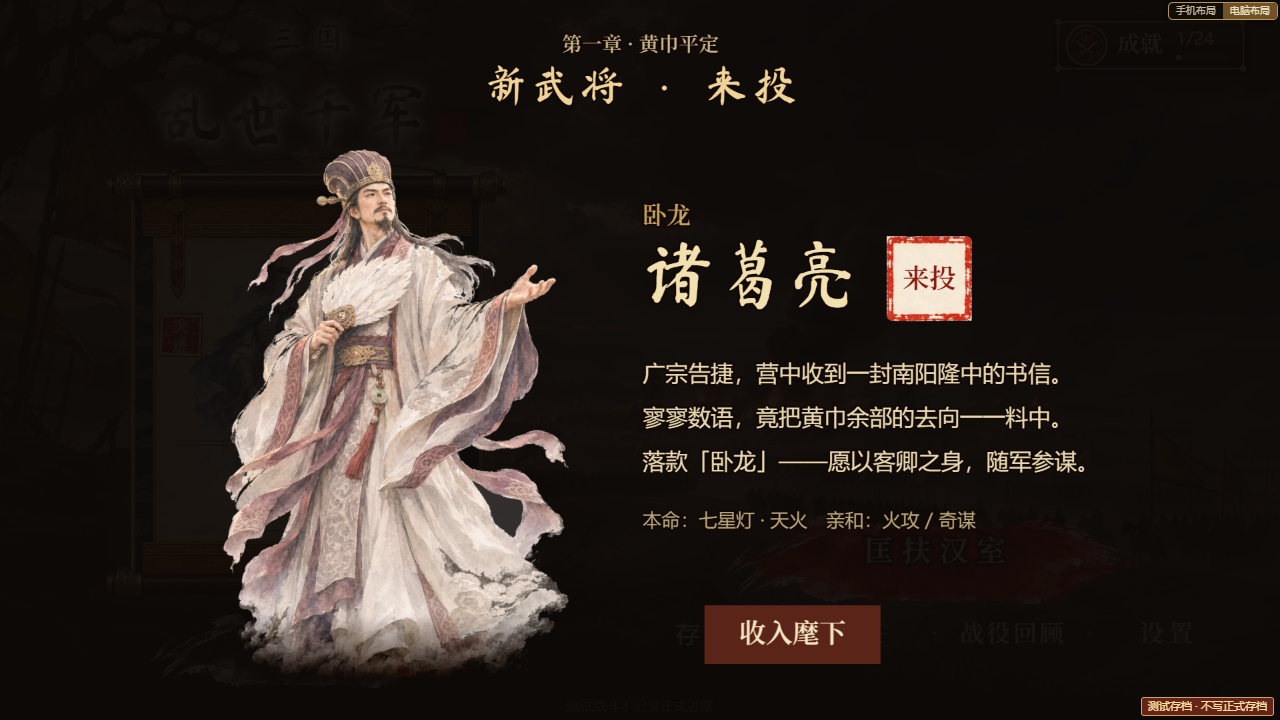
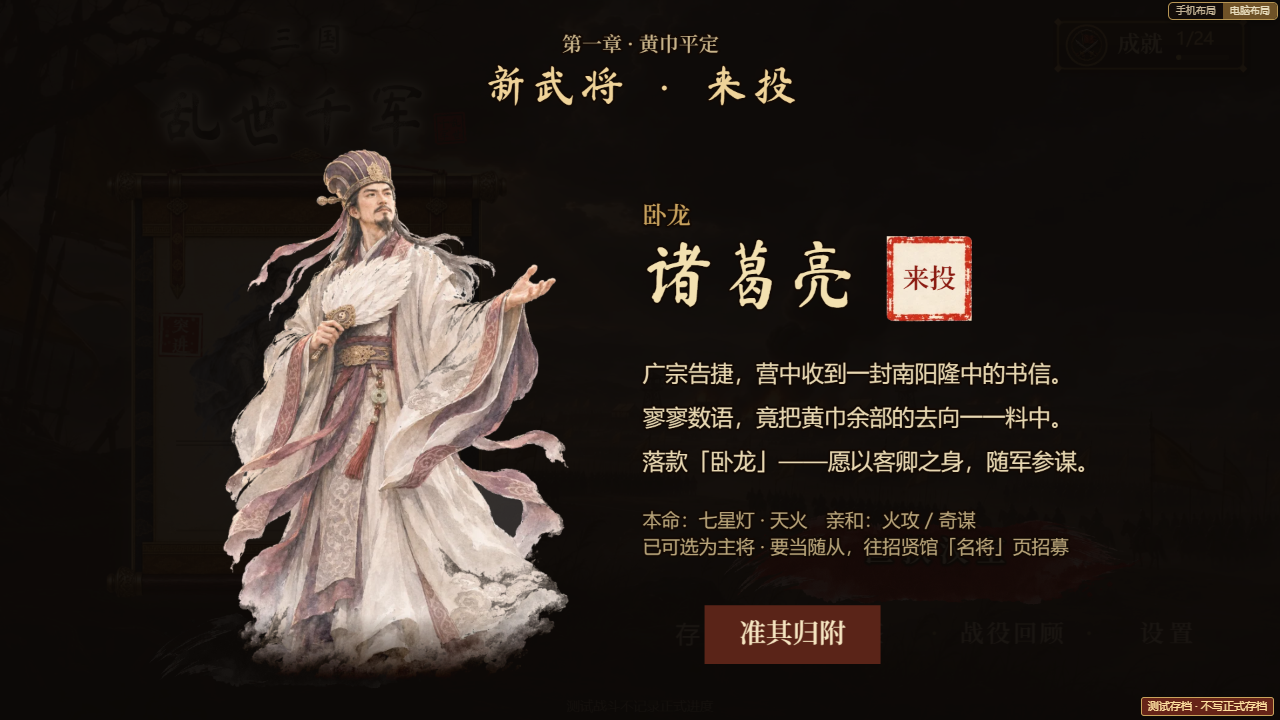
武将解锁只代表可选为主将，要当随从须去招贤馆招募（用户：「角色解锁是指可以玩到的角色，不是解锁就可以跟随了，需要去招贤那里招」）
- 打章节来投 / 劝降解锁的可玩武将：只能选为主将；不再免费入麾下（HeroJoinReveal 不再传 grantHero；劝降黄忠 joinByPersuasion 只解锁、提示去招贤馆）
- 招贤馆新增「名将」页：列出主公以外的全部可玩武将——未归附：剪影 + 「尚未归附 · 需劝降招募」；已归附未招：「招募 · N 军粮」；已在麾下：灰按钮
  hireHero：扣军粮、入麾下（随行名额有空就直接随行）、等级同 recruit 定在「随行上限 − 2」；价按档次 RECRUIT.heroHire（一般 900 / 顶尖 1200，开局四人 0，交平衡会话）
- 席位里不再随机挂可玩武将（原那份概率并给史事名将，原「再刷 N 次必出名将」保底取消），名将出现率文案同步
- 新存档：开局刘关张赵默认已招入麾下，主公之外的三人在随行名额内自动随行（RosterSave.starters，一档一次）
- 选主将界面：已归附未招的写「已归附 · 随行需往招贤馆招募」；揭幕卡加「要当随从，往招贤馆『名将』页招募」，按钮改「准其归附」
- 本关临时随战的降将来投等剧情直接入队不受影响
- test-hero-unlocks 19/19（新增 ⑨ 解锁≠随从、开局四人、未归附 / 军粮不足不能招、招募扣粮入麾下、劝降只解锁、席位不出可玩武将、名将页截图）；
  test-follower-cap 13/13（可玩名将改用 hireHero；名单分页逐页收集）；tsc、TMP 构建通过

Changed region(s): [[0.5, 0.7333, 0.8438, 0.7944], [0.5625, 0.8556, 0.6562, 0.9167]]

diff --git a/src/systems/RosterStore.ts b/src/systems/RosterStore.ts
@@ -11,6 +11,7 @@ import { isChapterTestRun } from './ChapterProgress';
 import { SURRENDER, recruitableName } from '../data/surrender';
 import { activeValue, passiveValue } from '../data/commonerSkills';
 import { heroUnlocked } from './HeroUnlocks';
+import { STARTER_HEROES, LOCKED_HINT as UNJOINED_HINT } from '../data/heroUnlocks';
 
 /**
  * 人才库与已招武将（RECRUIT_PLAN.md，用户选 A 方案）：独立存档键 im_roster_v1（在 SaveSlots.PROGRESS_KEYS 里，随存档位切换）。
@@ -27,6 +28,8 @@ export interface RosterSave {
   /** 主公已最终确定（开新存档时选定，或老存档在提示里确认 / 改选过一次）。false = 老存档自动指定，还有一次改选机会。 */
   lordFinal: boolean;
   offers: Offer[]; captives: Offer[]; season: number; manual: number; dry: number; seq: number; hall: number;
+  /** 开局四人（刘关张赵）已默认招进麾下（新存档一次；之后遣散了也不再补）。 */
+  starters?: boolean;
 }
 
 const RANDOM_KEY = '__im_roster_random';
@@ -67,7 +70,7 @@ function read(): RosterSave | null {
     const raw = localStorage.getItem(ROSTER_KEY); if (!raw) return null;
     const v = JSON.parse(raw); if (!v || v.version !== 1) return null;
     const s = empty();
-    s.lord = isHero(v.lord) ? v.lord : null; s.lordFinal = !!s.lord && v.lordFinal === true;
+    s.lord = isHero(v.lord) ? v.lord : null; s.lordFinal = !!s.lord && v.lordFinal === true; s.starters = v.starters === true;
     const seen = new Set<string>();
     for (const r of Array.isArray(v.owned) ? v.owned.slice(0, RECRUIT.maxOwned + 5) : []) { const p = parseRecruit(r); if (p && !seen.has(p.id)) { seen.add(p.id); s.owned.push(p); } }
     if (s.lord && !seen.has(s.lord)) s.owned.unshift(heroRecruit(s.lord));
@@ -115,7 +118,10 @@ export function loadRoster(): RosterSave {
   if (!worldUnlocked()) return empty();
   let s = read() ?? migrate();
   clampFollowerLevels(s);
-  { const n = s.offers.length; s.offers = s.offers.filter(o => !o.hero || heroUnlocked(o.hero)); if (s.offers.length !== n) write(s); } // 老档里挂着的还没来投的武将撤牌
+  // 可玩武将改在「名将」页直接招募：席位里不再挂可玩武将（老档挂着的一并撤牌）
+  { const n = s.offers.length; s.offers = s.offers.filter(o => !o.hero); if (s.offers.length !== n) write(s); }
+  // 开局四人（刘关张赵）新存档默认已招、互为随从（随行名额内）
+  if (!s.starters) { s.starters = true; for (const h of STARTER_HEROES) if (!s.owned.some(r => r.hero === h)) s.owned.push(heroRecruit(h)); const cap = followerCap(s); for (const r of s.owned) if (r.hero && r.hero !== s.lord && (STARTER_HEROES as readonly string[]).includes(r.hero) && s.followers.length < cap && !s.followers.includes(r.id)) s.followers.push(r.id); write(s); }
   const now = currentSeason();
   if (s.season !== now) {
     s.captives = s.captives.filter(o => (o.expires ?? now) > now);
@@ -243,7 +249,7 @@ const pityOf = (s: RosterSave): number => RECRUIT.pity[hallIdx(s)];
 /** 当前招贤馆等级下的名将出现率（界面用）：每席出名将（史事 + 可玩）的概率、其中可玩名将的概率、保底还差几次（0 = 这一级没有保底）。 */
 export function hallOdds(s: RosterSave = loadRoster()): { seat: number; hero: number; pity: number; pityLeft: number } {
   const r = RECRUIT.rates[hallIdx(s)], pity = pityOf(s);
-  return { seat: r.named + r.hero, hero: r.hero, pity, pityLeft: pity > 0 ? Math.max(1, pity - s.dry + 1) : 0 };
+  void pity; return { seat: r.named + r.hero, hero: 0, pity: 0, pityLeft: 0 }; // 可玩武将改在「名将」页直接招募
 }
 /** 刷新全部席位（自动换季与手动刷新共用），处理保底。 */
 function rollOffers(s: RosterSave): void {
@@ -252,12 +258,12 @@ function rollOffers(s: RosterSave): void {
   const seats = RECRUIT.seats[hallIdx(s)], rates = RECRUIT.rates[hallIdx(s)];
   for (let i = 0; i < seats; i++) {
     const r = rand(); let o: Offer | null = null;
-    if (r < rates.hero) o = heroOffer(s); else if (r < rates.hero + rates.named) o = namedOffer(s);
+    if (r < rates.hero + rates.named) o = namedOffer(s); // 可玩武将不再随机挂牌（改在「名将」页招募），原先那份概率并给史事名将
     s.offers.push(o ?? commonOffer(s));
   }
   const anyLeft = CHARACTERS.some(c => !s.owned.some(r => r.hero === c.id));
-  if (s.offers.some(o => o.kind === 'hero')) s.dry = 0;
-  else if (anyLeft && pityOf(s) > 0) { // Lv1 没有保底，也不攒次数
+  void anyLeft; s.dry = 0; // 可玩武将改为直接招募：不再有「再刷 N 次必出名将」保底
+  if (false as boolean) { // 旧保底（保留结构，不再触发）
     s.dry++;
     if (s.dry > pityOf(s)) { const h = heroOffer(s); if (h) { s.offers[s.offers.length - 1] = h; s.dry = 0; } }
   }
@@ -352,6 +358,8 @@ export function captureBoss(b: { id: string; name: string; template: FollowerTem
  * 麾下已满时不加，返回提示。新增内容会话 2026-11-17。
  */
 export function joinByPersuasion(name: string, hero?: CharacterId, opts: { boss?: string; template?: FollowerTemplate; quality?: ItemQuality } = {}): RosterResult {
+  // 可玩武将（黄忠）劝降成功：只算「解锁可玩」，要当随从得去招贤馆「名将」页招募（2026-11-20）
+  if (hero) return { ok: true, message: name + '归附 · 可选为主将；往招贤馆「名将」页招募后才随行' };
   const s = loadRoster();
   if (hero ? s.owned.some(r => r.hero === hero) : s.owned.some(r => r.name === name || (opts.boss && r.boss === opts.boss))) return { ok: true, message: `${name}已在麾下` };
   if (s.owned.length >= RECRUIT.maxOwned) return { ok: false, message: `麾下已满 ${RECRUIT.maxOwned} 人，${name}暂回乡里（遣散一些后再来）` };
@@ -380,6 +388,26 @@ export function toggleFollower(id: string): RosterResult {
  * 武将来投（systems/HeroUnlocks）：免费直接进本档麾下（不进降将栏、不花军粮），顺手撤掉招贤馆里同一人的挂牌。
  * 天下还没开放（没有人才库）时返回 false——等开放后下次补查再入。已在麾下也算 true。
  */
+/** 这位可玩武将在不在本档麾下（主公算在）。 */
+export function heroHired(hero: CharacterId, s: RosterSave = loadRoster()): boolean { return s.lord === hero || s.owned.some(r => r.hero === hero); }
+/** 招为随从的价（按档次，data/recruits RECRUIT.heroHire；开局四人 0）。 */
+export function heroHireCost(hero: CharacterId): number { if ((STARTER_HEROES as readonly string[]).includes(hero)) return 0; const H = RECRUIT.heroHire; return H.highIds.includes(hero) ? H.high : H.base; }
+/**
+ * 招贤馆「名将」页：把已解锁（可玩）的武将招进麾下当随从（2026-11-20 用户「解锁了不是就能跟随，要去招贤那里招」）。
+ * 没解锁 / 已在麾下 / 军粮不够都不招；招到后随行名额有空就直接随行。
+ */
+export function hireHero(hero: CharacterId): RosterResult {
+  if (!worldUnlocked()) return { ok: false, message: '天下尚未开放' };
+  const name = getCharacter(hero).name;
+  if (!heroUnlocked(hero)) return { ok: false, message: name + ' · ' + UNJOINED_HINT };
+  const s = loadRoster(); if (heroHired(hero, s)) return { ok: false, message: name + '已在麾下' };
+  if (s.owned.length >= RECRUIT.maxOwned) return { ok: false, message: '麾下已满 ' + RECRUIT.maxOwned + ' 人（遣散一些后再招）' };
+  const cost = heroHireCost(hero); if (cost > 0 && !spendWorld({ provisions: cost })) return { ok: false, message: '军粮不足：招募' + name + '需要 ' + cost };
+  const s2 = loadRoster(), r = heroRecruit(hero); s2.owned.push(r); if (s2.followers.length < followerCap(s2)) s2.followers.push(r.id);
+  // 同 recruit()：新入队定在「随行上限 − 2」级（早有更高的武将等级记录就保留，但不超过上限）
+  { const joinCap = followerLevelCap(), joinLevel = Math.max(1, joinCap - FOLLOWER_LEVEL.joinBelowCap), key = hero as HeroKey, keep = hasHeroRecord(key) ? Math.min(heroLevel(key), joinCap) : 0; clampHeroLevel(key, joinCap, Math.max(joinLevel, keep)); }
+  write(s2); return { ok: true, message: name + '应募入麾下' + (s2.followers.includes(r.id) ? ' · 已随行' : ' · 可在「麾下」设为随行') + (cost ? ' · 花费 ' + cost + ' 军粮' : '') };
+}
 export function grantHero(hero: CharacterId): boolean {
   if (!worldUnlocked()) return false;
   const s = loadRoster();

diff --git a/src/scenes/TalentHallScene.ts b/src/scenes/TalentHallScene.ts
@@ -18,12 +18,16 @@ import { attrBadge } from '../ui/AttrBadge';
 import { homeCommand } from '../ui/HomeCommand';
 import { lqHitBox, lqPanel, lqSkin } from '../ui/LacquerKit';
 import { HEADING_FONT } from '../config';
+import { heroHireCost, heroHired, hireHero } from '../systems/RosterStore';
+import { heroUnlocked } from '../systems/HeroUnlocks';
+import { LOCKED_HINT as UNJOINED_HINT } from '../data/heroUnlocks';
+import type { CharacterId } from '../data/characters';
 
 /** 普通招募武将（内部 kind = 'common'）对玩家显示的称呼（用户 2026-11-17：不叫「大众脸」，改三国风；候选 无名之辈 / 偏裨之将 / 庸碌之将，待用户定）。 */
 export const COMMON_LABEL = '无名之辈';
 /** 电脑版左右边距（2026-11-18 用户截图：标题、军粮、行框、页签贴着左边）：行框从 MX 起，文字再往里。 */
 const MX = 32;
-type Tab = 'offers' | 'roster';
+type Tab = 'offers' | 'roster' | 'heroes';
 export class TalentHallScene extends Phaser.Scene {
   private tab: Tab = 'offers'; private page = 0; private message = ''; private content?: Phaser.GameObjects.Container; private status!: Phaser.GameObjects.Text;
   constructor() { super('TalentHallScene'); }
@@ -79,6 +83,9 @@ export class TalentHallScene extends Phaser.Scene {
     this.small(D ? MX + 70 : 90, tabY, 140, `人才（${s.offers.length + s.captives.length}）`, () => { this.tab = 'offers'; this.page = 0; this.render(); }, 'talent-tab-offers', true, this.tab === 'offers');
     const men = rosterFollowers(s); // 2026-11-18 用户「主公不应该在这里」：麾下不含主公
     this.small(D ? MX + 70 + 150 : 240, tabY, 140, `麾下（${men.length}）`, () => { this.tab = 'roster'; this.page = 0; this.render(); }, 'talent-tab-roster', true, this.tab === 'roster');
+    // 名将（2026-11-20 用户「解锁是指可以玩到的角色，不是解锁就可以跟随了，需要去招贤那里招」）：可玩武将在这里花军粮招为随从
+    const heroList = CHARACTERS.filter(c => c.id !== s.lord), hirable = heroList.filter(c => heroUnlocked(c.id) && !heroHired(c.id, s)).length;
+    this.small(D ? MX + 70 + 300 : 390, tabY, 140, `名将（可招 ${hirable}）`, () => { this.tab = 'heroes'; this.page = 0; this.render(); }, 'talent-tab-heroes', true, this.tab === 'heroes');
     if (hall < 3) { const c = RECRUIT.hallUpgrade[Math.max(1, hall) - 1]; this.small(W - (D ? MX + 110 : 110), tabY, D ? 220 : 180, `升级招贤馆（${c.provisions} 军粮）`, () => { this.message = upgradeHall().message; this.render(); }, 'talent-hall-up'); }
     const top = tabY + (D ? 26 : 34), bottom = H - (D ? 64 : 104) - 30, rowH = D ? 74 : this.tab === 'roster' ? 118 : 104;
     const per = Math.max(1, Math.floor((bottom - top) / rowH));
@@ -90,8 +97,13 @@ export class TalentHallScene extends Phaser.Scene {
       for (const it of list) rows.push(() => this.offerRow(it.o, it.i, it.captive, at(), rowH - 8));
       // 名将出现率（用户 2026-11-17：Lv1 基本不出名将，升级招贤馆后提高）
       const cost = refreshCost(s), odds = hallOdds(s), pct = (v: number) => `${+(v * 100).toFixed(1)}%`;
-      this.content.add(worldText(this, D ? MX + 4 : 24, bottom + 6, `名将出现率：每席 ${pct(odds.seat)}（可玩名将 ${pct(odds.hero)}）` + (odds.pity ? ` · 再刷 ${odds.pityLeft} 次内必出未归附名将` : ' · 升级招贤馆后提高'), 12, '#b9ceb8').setName('talent-odds'));
+      this.content.add(worldText(this, D ? MX + 4 : 24, bottom + 6, `史事名将出现率：每席 ${pct(odds.seat)} · 升级招贤馆后提高 · 可玩武将在「名将」页直接招募`, 12, '#b9ceb8').setName('talent-odds'));
       this.small(W - (D ? MX + 95 : 100), bottom + 14, D ? 190 : 170, `刷新（${cost} 军粮）`, () => { this.message = manualRefresh().message; this.page = 0; this.render(); }, 'talent-refresh', w.provisions >= cost, true);
+    } else if (this.tab === 'heroes') {
+      // 已解锁未招的排前面，其次已在麾下，最后未归附
+      const rank = (id: CharacterId) => !heroUnlocked(id) ? 2 : heroHired(id, s) ? 1 : 0;
+      for (const c of [...heroList].sort((a, b) => rank(a.id) - rank(b.id))) rows.push(() => this.heroRow(c.id, at(), rowH - 8, s.followers.length, cap, w.provisions));
+      this.content.add(worldText(this, D ? MX + 4 : 24, bottom + 20, '解锁的武将可以选为主将；要当随从（跟着出战）得在这里招募。招到后随行名额有空就直接随行。', 12, '#b9ceb8').setName('talent-heroes-note'));
     } else {
       for (const r of men) rows.push(() => this.rosterRow(r, s.followers.includes(r.id), at(), rowH - 8, rankCap(s)));
       this.content.add(worldText(this, D ? MX + 4 : 24, bottom + 6, `随行 ${s.followers.length}/${cap} · 出战时与主将同名的随行自动留守`, 12, '#b9ceb8'));
@@ -118,6 +130,20 @@ export class TalentHallScene extends Phaser.Scene {
     this.content!.add(worldText(this, tx, y - h / 2 + (D ? 32 : 36), `${q.label} · ${kind}${captive && o.expires !== undefined ? ` · 剩 ${captiveSeasonsLeft(o)} 季` : ''}\n${surrenderMoveLine(o.boss) ? TEMPLATES[o.template].name + ' · ' + surrenderMoveLine(o.boss) : TEMPLATES[o.template].name + '：' + TEMPLATES[o.template].desc}`, 12, '#cdbf9f').setWordWrapWidth(w - size - 150).setName('talent-offer-desc'));
     const cost = captive ? Math.ceil(o.cost * RECRUIT.captiveDiscount) : o.cost;
     this.small(W - x0 - 70, y, 120, `${captive ? '招降' : '招募'} ${cost}粮`, () => { this.message = recruit(i, captive).message; this.render(); }, `talent-${captive ? 'captive' : 'offer'}-${i}`, true, o.kind !== 'common');
+  }
+  /** 「名将」页一行：头像、名字与状态；未归附 → 剪影 + 「尚未归附 · 需劝降招募」；已归附未招 → 「招募 · N 军粮」；已在麾下 → 灰按钮。 */
+  private heroRow(id: CharacterId, y: number, h: number, following: number, cap: number, grain: number) {
+    const D = W > 600, x0 = D ? MX : 16, w = W - x0 * 2, c = getCharacter(id), unlocked = heroUnlocked(id), hired = unlocked && heroHired(id), cost = heroHireCost(id);
+    if (D) { const g = this.add.graphics(); g.fillStyle(0x000000, .35).fillRoundedRect(x0 + 2, y - h / 2 + 3, w, h, 8).fillStyle(0x1b120b, .96).fillRoundedRect(x0, y - h / 2, w, h, 8).lineStyle(1.5, unlocked && !hired ? 0xe0b25a : 0xc9a35e, unlocked ? .9 : .4).strokeRoundedRect(x0, y - h / 2, w, h, 8); this.content!.add(g); } else this.content!.add(panel(this, W / 2, y, w, h));
+    const size = h - 16; this.seal(x0 + 12 + size / 2, y, size, 'orange', c.name.slice(0, 1), unlocked ? c.portrait : undefined);
+    if (!unlocked) { const sh = this.content!.list[this.content!.list.length - 1] as Phaser.GameObjects.Text; sh?.setColor?.('#5a4a36'); }
+    const tx = x0 + 24 + size;
+    this.content!.add(worldText(this, tx, y - h / 2 + 8, unlocked ? c.name : '？？？', D ? 17 : 18, unlocked ? '#f2a24e' : '#8a7a62').setName('talent-hero-name-' + id));
+    const status = !unlocked ? UNJOINED_HINT : hired ? '已在麾下 · 去「麾下」页设随行' : '已归附 · 可选为主将 · 需在此招募才会随行出战';
+    this.content!.add(worldText(this, tx, y - h / 2 + (D ? 32 : 36), status, 12, unlocked ? '#cdbf9f' : '#8a7a62').setName('talent-hero-status-' + id));
+    const label = !unlocked ? '未归附' : hired ? '已在麾下' : `招募 · ${cost} 军粮`, can = unlocked && !hired && grain >= cost;
+    this.small(W - x0 - 90, y, 160, label, () => { const r = hireHero(id); this.message = r.message; this.render(); }, 'talent-hire-' + id, can, unlocked && !hired);
+    void following; void cap;
   }
   private rosterRow(r: Recruit, following: boolean, y: number, h: number, cap: number) {
     const D = W > 600, x0 = D ? MX : 16, w = W - x0 * 2, q = QUALITIES[r.quality];

diff --git a/src/ui/HeroJoinReveal.ts b/src/ui/HeroJoinReveal.ts
@@ -5,7 +5,6 @@ import { heroAffinity, SCHOOLS } from '../data/schools';
 import { weaponName } from '../data/upgrades';
 import { FONT, HEADING_FONT, TITLE_FONT, GAME_WIDTH as W, GAME_HEIGHT as H, IS_DESKTOP as D } from '../config';
 import { joinedByFallback, markRevealSeen, pendingReveals, realProgress, refreshUnlocks } from '../systems/HeroUnlocks';
-import { grantHero } from '../systems/RosterStore';
 
 /**
  * 「新武将 · 来投」揭幕（hero-unlock-design.md 第三节）：黑底，水墨立轴从墨晕里显出 → 朱印「来投」盖下 →
@@ -16,7 +15,8 @@ const GOLD = '#efd399', IVORY = '#e8d8b2', STROKE = '#120904';
 
 /** 按进度补查来投（本档免费入麾下）并把没看过的揭幕依次弹出。各场景进来 / 告捷时调。 */
 export function checkHeroJoins(scene: Phaser.Scene, done?: () => void): void {
-  try { refreshUnlocks(realProgress(), id => grantHero(id)); } catch { /* 存档不可读：不挡流程 */ }
+  // 2026-11-20 用户：解锁只代表可选为主将；要当随从去招贤馆「名将」页招募（不再免费入麾下）
+  try { refreshUnlocks(realProgress()); } catch { /* 存档不可读：不挡流程 */ }
   showPendingJoins(scene, done);
 }
 /** 依次弹出还没看过的揭幕。 */
@@ -66,11 +66,11 @@ function build(scene: Phaser.Scene, id: CharacterId, onClose: () => void): void 
   const body = txt(x0, D ? 268 : 690, lines.join('\n'), D ? 17 : 17, IVORY).setOrigin(align, 0).setLineSpacing(10).setWordWrapWidth(D ? W * .44 : W - 60).setAlign(D ? 'left' : 'center').setAlpha(0).setName('hero-join-lines');
   root.add(body);
   const aff = heroAffinity(id).map(s => SCHOOLS[s].name).join(' / ');
-  const meta = txt(x0, (D ? 268 : 690) + body.height + 22, `本命：${weaponName(hero.startWeapon, id)}${aff ? '　亲和：' + aff : ''}`, D ? 14 : 14, '#b9a57a').setOrigin(align, 0).setAlpha(0).setName('hero-join-meta');
+  const meta = txt(x0, (D ? 268 : 690) + body.height + 22, `本命：${weaponName(hero.startWeapon, id)}${aff ? '　亲和：' + aff : ''}\n已可选为主将 · 要当随从，往招贤馆「名将」页招募`, D ? 14 : 14, '#b9a57a').setOrigin(align, 0).setAlpha(0).setName('hero-join-meta');
   root.add(meta);
-  // 收入麾下（点按钮 / 回车 / 空格；入场 0.9 秒内不收，免得误点）
+  // 确认（点按钮 / 回车 / 空格；入场 0.9 秒内不收，免得误点）。2026-11-20 起归附 = 可选为主将，不再直接入麾下
   const bx = D ? cx - 20 : W / 2, by = D ? H - 64 : H - 120;
-  const btn = txt(bx, by, '收入麾下', 20, '#f6e6c2', HEADING_FONT).setOrigin(.5).setPadding(26, 10).setBackgroundColor('#5a2418').setStroke(STROKE, 0).setInteractive({ useHandCursor: true }).setAlpha(0).setName('hero-join-ok');
+  const btn = txt(bx, by, '准其归附', 20, '#f6e6c2', HEADING_FONT).setOrigin(.5).setPadding(26, 10).setBackgroundColor('#5a2418').setStroke(STROKE, 0).setInteractive({ useHandCursor: true }).setAlpha(0).setName('hero-join-ok');
   root.add(btn);
   const t0 = performance.now(); let closed = false;
   const close = (): void => {

diff --git a/src/ui/HomeHeroPicker.ts b/src/ui/HomeHeroPicker.ts
@@ -1,5 +1,8 @@
 import Phaser from 'phaser';
-import {canPickLord,lordFinal,lordHero,lordRules} from '../systems/RosterStore';
+import {canPickLord,heroHired,lordFinal,lordHero,lordRules} from '../systems/RosterStore';
+import {worldUnlocked} from '../world/WorldStore';
+/** 已归附（可选为主将）但本档还没在招贤馆招为随从（2026-11-20 用户：解锁不等于能跟随）。 */
+const needHire=(id:string):boolean=>{try{return heroUnlocked(id)&&worldUnlocked()&&!heroHired(id as Parameters<typeof heroHired>[0]);}catch{return false;}};
 import {FONT,HEADING_FONT,TITLE_FONT,GAME_WIDTH as W,GAME_HEIGHT as H,IS_DESKTOP as D} from '../config';
 import {HeroWarCard} from './HeroWarCard';
 import {CHARACTERS} from '../data/characters';
@@ -56,7 +59,7 @@ export class HomeHeroPicker{
    if(locked)c.art.setTintFill(0x17120c);else c.art.clearTint();this.lockTexts[i]?.setName('pick-lock-'+id).setText(locked?LOCKED_TITLE+'\n'+LOCKED_HOW:'').setVisible(locked);}});
   if(this.armed!==this.candidate)this.armed=-1;
   const cid=CHARACTERS[this.order[this.candidate]]?.id??'zhaoyun',lock=!canPickLord(cid);
-  if(!heroUnlocked(cid)&&this.armed<0){this.hint?.setColor(D?IVORY:'#ff9a72').setText(`${CHARACTERS[this.order[this.candidate]].name} · ${LOCKED_HINT}`);this.pageText?.setText(D?`${this.page+1} / ${this.pages}`:`第 ${this.page+1} / ${this.pages} 页 · 共 ${CHARACTERS.length} 将`);return;}if(this.armed<0)this.hint?.setColor(D?IVORY:'#ff9a72').setText(lock?this.lockText():lordRules()&&!lordHero()?(D?'选定即为主公 · 不可更改':'择一良将为主公 · 选定后本存档不可更改'):'');this.hint?.setVisible(!!this.hint.text);
+  if(!heroUnlocked(cid)&&this.armed<0){this.hint?.setColor(D?IVORY:'#ff9a72').setText(`${CHARACTERS[this.order[this.candidate]].name} · ${LOCKED_HINT}`);this.pageText?.setText(D?`${this.page+1} / ${this.pages}`:`第 ${this.page+1} / ${this.pages} 页 · 共 ${CHARACTERS.length} 将`);return;}if(this.armed<0)this.hint?.setColor(D?IVORY:'#ff9a72').setText(lock?(needHire(cid)?`${CHARACTERS[this.order[this.candidate]].name}已归附 · 随行需往招贤馆招募`:this.lockText()):lordRules()&&!lordHero()?(D?'选定即为主公 · 不可更改':'择一良将为主公 · 选定后本存档不可更改'):'');this.hint?.setVisible(!!this.hint.text);
   this.pageText?.setText(D?`${this.page+1} / ${this.pages}`:`第 ${this.page+1} / ${this.pages} 页 · 共 ${CHARACTERS.length} 将`);
  }
 }

diff --git a/src/data/recruits.ts b/src/data/recruits.ts
@@ -43,6 +43,11 @@ export const RECRUIT = {
   ] as ReadonlyArray<Partial<Record<ItemQuality, number>>>,
   /** 招募费（军粮）。 */
   cost: { white: 80, green: 150, blue: 260, named: 500, hero: 900 },
+  /**
+   * 可玩武将招募为随从（2026-11-20 用户「角色解锁是指可以玩到的角色，不是解锁就可以跟随了，需要去招贤那里招」）：
+   * 解锁只代表能选为主将；要当随从得在招贤馆「名将」页花军粮招。价按档次：开局四人 0（新存档默认已招），一般 900，顶尖 1200。初值，交平衡会话。
+   */
+  heroHire: { base: 900, high: 1200, highIds: ['zhuge', 'lvbu', 'zhouyu', 'machao', 'zhangliao'] as readonly string[] },
   /** 保底（按招贤馆等级）：连续这么多次刷新都没有出现未拥有的可玩名将，下一次必出；0 = 这一级没有保底（Lv1 不出名将）。 */
   pity: [0, 10, 6],
   /** 击败敌将后被俘的概率：名将悬赏 / 攻城 / 守城。 */
